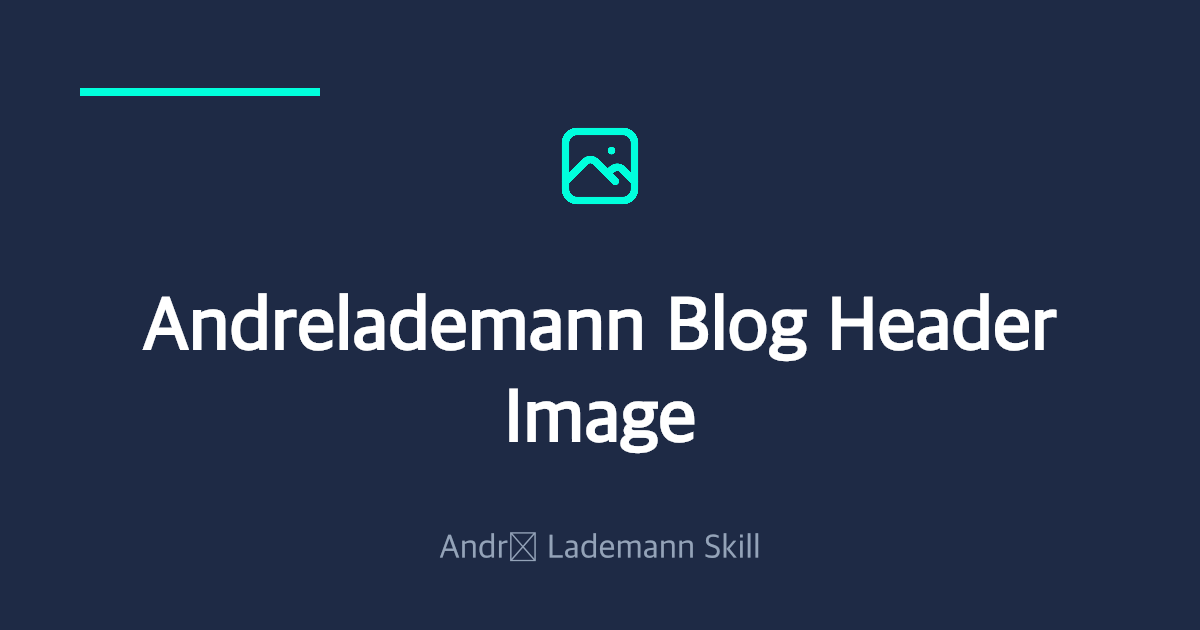
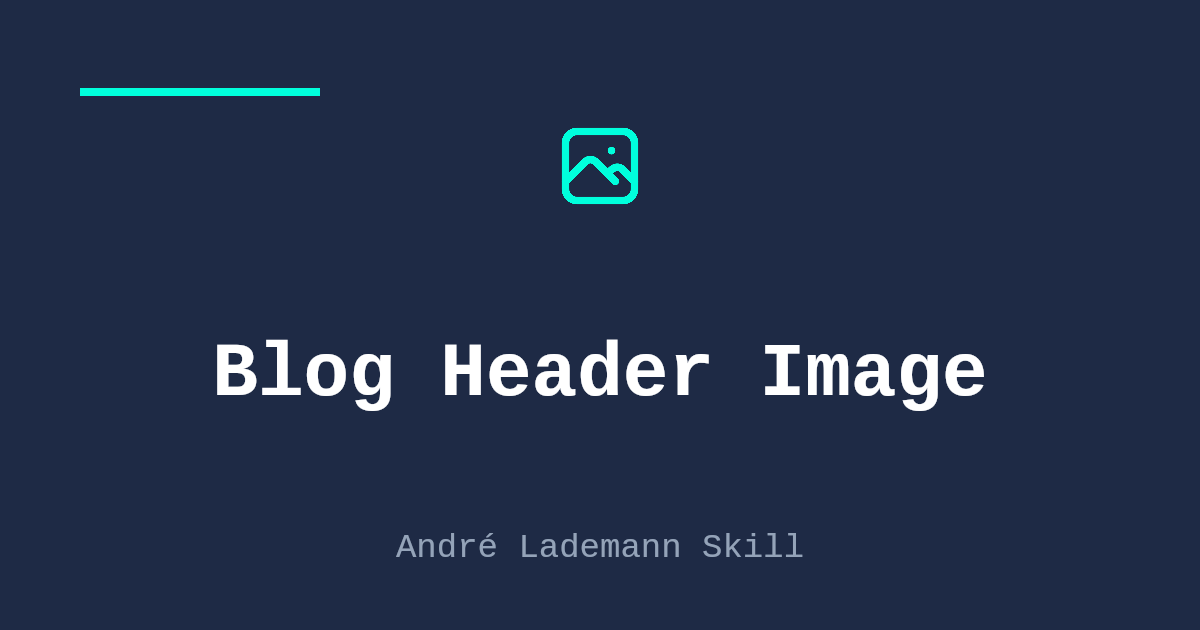
feat(skills): drop owner prefix from skill display titles (#22)
* feat(skills): drop owner prefix from skill display titles

Keep invoke ids and catalog attribution, but show short titles such as Blog Post Writer.

* feat(docs): regenerate OG previews with short skill titles

Use metadata titles on skill cards and keep André Lademann Skill as the origin subtitle.

* test(docs): pin skill author locator to exact metadata label

---------

Changed region(s): [[0.1233, 0.4524, 0.8942, 0.7238], [0.3083, 0.8444, 0.6783, 0.9048]]

diff --git a/docs/tests/e2e/docs.spec.ts b/docs/tests/e2e/docs.spec.ts
@@ -31,6 +31,8 @@ test('index search and filter interactions keep cards visible', async ({ page })
 
   const cards = page.locator('#skills-grid .card');
   await expect(cards.first()).toBeVisible();
+  await expect(page.getByRole('heading', { name: 'Blog Post Writer', level: 2 })).toBeVisible();
+  await expect(page.getByText('André Lademann Skills').first()).toBeVisible();
 
   await page.fill('#search-input', 'blog');
   const filteredCountText = await page.locator('#visible-count').textContent();
@@ -76,4 +78,14 @@ test('system theme follows prefers-color-scheme', async ({ page }) => {
   await themeToggle.click();
   await themeToggle.click();
   await expect(page.locator('html')).toHaveClass(/dark/);
+});
+
+test('skill detail uses a short title and catalog origin', async ({ page }) => {
+  await page.goto('/andrelademann.de.skills/skills/andrelademann-blog-post-writer/');
+
+  const banner = page.getByRole('banner');
+  await expect(banner.getByText('André Lademann Skills')).toBeVisible();
+  await expect(banner.getByRole('heading', { level: 1 })).toHaveText('Blog Post Writer');
+  await expect(page.getByText('Author', { exact: true })).toBeVisible();
+  await expect(page.getByText('André Lademann', { exact: true }).first()).toBeVisible();
 });

diff --git a/AGENTS.md b/AGENTS.md
@@ -36,12 +36,14 @@ This document defines the guardrails for agent work in this repository.
 - Place skills in matching domain folders, for example:
   - `skills/blog/<skill-name>/SKILL.md`
 - Store a separate metadata file for each skill at `skills/<domain>/<skill-name>/metadata.json` with:
-  - `title` (human-readable skill title)
+  - `title` (human-readable skill title without an `André Lademann` prefix, e.g. `Blog Post Writer`)
+  - `author` (catalog owner, `André Lademann`)
   - `description` (short description in English)
   - `purpose` (short "use when" style purpose statement in English)
   - `tags` (array of concise topic tags, e.g. `["terraform", "testing"]`)
   - `source` (canonical upstream/source URL when applicable)
   - `version` (skill version string; align with SKILL.md frontmatter `version`)
+- Skill display titles (`metadata.json` `title` and the `SKILL.md` H1) must not repeat the catalog owner. Keep origin visible through `author`, the `source` URL, catalog chrome, and a short provenance line in `SKILL.md` that names the André Lademann Skills catalog and the invoke id (`andrelademann-<skill>`).
 - For new/moved/renamed skills, always keep `index.json` and `docs/index.json` (`path`) consistent.
 - Every skill listed in `docs/index.json` must have an Open Graph preview at `docs/public/og/skills/<skill-name>.png`. In addition, `docs/public/og/default.png` is required for catalog and tool pages.
 - OG design should follow the principles from `svg-logo-designer`: clear hierarchy, high contrast, readable skill name, and a consistent André Lademann look.

diff --git a/CONTRIBUTING.md b/CONTRIBUTING.md
@@ -45,10 +45,11 @@ pnpm build
 ## Skills hinzufügen
 
 1. Ordner unter einer Domäne anlegen, z. B. `skills/blog/<skill-name>/`
-2. `SKILL.md` mit Frontmatter erstellen
-3. Skill in `index.json` ergänzen
-4. Open-Graph-Asset anlegen: `docs/public/og/skills/<skill-name>.png` (1200×630)
-5. Sicherstellen, dass `docs/public/og/default.png` vorhanden ist (Fallback für Nicht-Skill-Seiten)
+2. `SKILL.md` mit Frontmatter und kurzem Titel ohne `André Lademann`-Präfix erstellen
+3. `metadata.json` mit `title`, `author`, `description`, `purpose`, `tags`, `source` und `version` ergänzen
+4. Skill in `index.json` ergänzen
+5. Open-Graph-Asset anlegen: `docs/public/og/skills/<skill-name>.png` (1200×630)
+6. Sicherstellen, dass `docs/public/og/default.png` vorhanden ist (Fallback für Nicht-Skill-Seiten)
 
 ## Integrationen pflegen
 

diff --git a/skills/blog/andrelademann-blog-post-writer/SKILL.md b/skills/blog/andrelademann-blog-post-writer/SKILL.md
@@ -5,7 +5,9 @@ version: 2.3.0 # x-release-please-version
 scope: blog
 ---
 
-# André Lademann Blog Post Writer
+# Blog Post Writer
+
+This skill belongs to the [André Lademann Skills](https://github.com/vergissberlin/andrelademann.de.skills) catalog. Invoke it as `andrelademann-blog-post-writer`.
 
 Create a complete Markdown or MDX article and its finished visual package for André Lademann's personal blog, [blog.andrelademann.de](https://blog.andrelademann.de/). The blog covers cloud architecture, software development, AI and agent tooling, developer experience, careers, and personal engineering observations. It sounds like André sharing a considered opinion with fellow practitioners, never like corporate content marketing.
 

diff --git a/docs/src/pages/best-practices.md b/docs/src/pages/best-practices.md
@@ -8,8 +8,9 @@ subtitle: Guidelines for discoverable, safe, and maintainable Agent Skills.
 
 ## Naming
 
-- Use `kebab-case` for skill folders.
-- Keep skill names close to the real use case (for example `andrelademann-blog-post-writer`).
+- Use `kebab-case` for skill folders and invoke ids (for example `andrelademann-blog-post-writer`).
+- Keep the human-readable title short and free of an `André Lademann` prefix (for example `Blog Post Writer`).
+- Show catalog origin in metadata `author`, the `source` URL, and a provenance line in `SKILL.md`.
 - Use practical trigger words in descriptions.
 
 ## Discoverability

diff --git a/wiki/skills-verwenden.md b/wiki/skills-verwenden.md
@@ -4,7 +4,7 @@
 Skills geben Agenten eine klare, wiederverwendbare Anleitung für wiederkehrende Aufgaben.
 
 ## Vorgehen
-1. Passenden Skill anhand von Name und Beschreibung auswählen.
+1. Passenden Skill anhand von Titel und Beschreibung auswählen. Der Anzeigename ist kurz (zum Beispiel `Blog Post Writer`); die Invoke-ID bleibt `andrelademann-blog-post-writer` und verweist auf den André Lademann Skills-Katalog.
 2. `SKILL.md` des Skills laden.
 3. Nur bei Bedarf zusätzliche Artefakte laden (`references/`, `assets/`, `scripts/`).
 4. Ergebnisse prüfen und auf den konkreten Kontext anpassen.

diff --git a/skills/blog/andrelademann-blog-promote/SKILL.md b/skills/blog/andrelademann-blog-promote/SKILL.md
@@ -5,7 +5,9 @@ version: 2.3.0 # x-release-please-version
 scope: blog
 ---
 
-# André Lademann Blog Promote
+# Blog Promote
+
+This skill belongs to the [André Lademann Skills](https://github.com/vergissberlin/andrelademann.de.skills) catalog. Invoke it as `andrelademann-blog-promote`.
 
 You are André's social and content-promotion manager. The article is already written and live (or about to go live). The job starts after writing: make the article visible where its audiences actually spend time, in a tone that fits each channel, without asking André to paste the same copy five times.
 

diff --git a/skills/blog/andrelademann-blog-header-image/SKILL.md b/skills/blog/andrelademann-blog-header-image/SKILL.md
@@ -5,7 +5,9 @@ version: 2.3.0 # x-release-please-version
 scope: blog
 ---
 
-# André Lademann Blog Header Image
+# Blog Header Image
+
+This skill belongs to the [André Lademann Skills](https://github.com/vergissberlin/andrelademann.de.skills) catalog. Invoke it as `andrelademann-blog-header-image`.
 
 Generate the actual header image for a blog post, not merely a prompt. This skill creates the single visual used as both the post's `heroImage` and `ogImage` on [blog.andrelademann.de](https://blog.andrelademann.de/).
 

diff --git a/templates/basic-skill/SKILL.md b/templates/basic-skill/SKILL.md
@@ -11,6 +11,8 @@ safe-defaults:
 
 # <Skill Title>
 
+This skill belongs to the [André Lademann Skills](https://github.com/vergissberlin/andrelademann.de.skills) catalog. Invoke it as `your-skill-name`.
+
 ## When to Use?
 
 - Trigger 1
